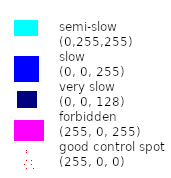
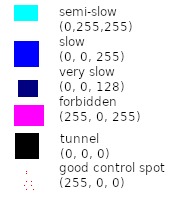
Tunnel merged at coffee break.

diff --git a/src/main.py b/src/main.py
@@ -85,6 +85,7 @@ def setTheStageForNewRound(cfg):
         uiInitStartTriangle(angle, position)
         nextControl = 1
         reachedControl = 0
+        inTunnel = False
         playerRoutes = []
         startOverPlayerRoute()
         initializeAINextTrack(ctrls, faLookup, saLookup, ssaLookup, vsaLookup, gameSettings.pacemaker)
@@ -98,6 +99,7 @@ def setTheStageForNewRound(cfg):
         shortestWeightedDistance = 0.0
         playerWeightedDistance = 0.0
         state = "running"
+        inTunnelPacmaker = False
         pacemakerPath = None
         pacemakerSteps = 0
         pacemakerStartThreshold = 0
@@ -191,6 +193,7 @@ if __name__ == "__main__":
     playerRoutes = []
     startTime = None
     totalTime = None
+    inTunnel = False
     shortestDistance = None
     playerDistance = None
     shortestWeightedDistance = None
@@ -202,6 +205,7 @@ if __name__ == "__main__":
     pacemakerStartThreshold = 0
     pacemakerPosition = None
     pacemakerPath = None
+    inTunnelPacemaker = False
     pacemakerAngle = 0
     pacemakerPrepareForShout = True
     pacemakerStep = -5
@@ -243,7 +247,7 @@ if __name__ == "__main__":
                 running = False
             stopBirds()
         if not quitting:
-            config, controls, faLookup, saLookup, ssaLookup, vsaLookup, generatedOrDownloadedMap, tmpMetersPerPixel = returnConfig(gameSettings, externalImageData)
+            config, controls, faLookup, saLookup, ssaLookup, vsaLookup, tunnelLookup, generatedOrDownloadedMap, tmpMetersPerPixel = returnConfig(gameSettings, externalImageData)
 
             # scale from multiple sources...
             if gameSettings.infiniteOulu:
@@ -326,7 +330,7 @@ if __name__ == "__main__":
                         if gameSettings.autoTest:
                             position, angle = fakeCalculateNextStep(controls)
                         else:
-                            position, angle = calculateNextStep(faLookup, saLookup, ssaLookup, vsaLookup, position, angle, movement, gameSettings.speed, gameSettings.metersPerPixel)
+                            position, angle, inTunnel = calculateNextStep(faLookup, saLookup, ssaLookup, vsaLookup, tunnelLookup, position, angle, movement, gameSettings.speed, gameSettings.metersPerPixel)
 
                         # Progress the pacemaker position
                         if pacemakerPath is not None:
@@ -334,7 +338,7 @@ if __name__ == "__main__":
                             pacemakerAdvancement = 0
                             if pacemakerSteps > pacemakerStartThreshold:
                                 pacemakerAdvancement = pacemakerSteps - pacemakerStartThreshold
-                            pacemakerPosition, pacemakerAngle = getPacemakerPos(saLookup, ssaLookup, vsaLookup, pacemakerPath, pacemakerAdvancement, gameSettings.speed, gameSettings.metersPerPixel, gameSettings.pacemaker)
+                            pacemakerPosition, pacemakerAngle, inTunnelPacemaker = getPacemakerPos(saLookup, ssaLookup, vsaLookup, tunnelLookup, pacemakerPath, pacemakerAdvancement, gameSettings.speed, gameSettings.metersPerPixel, gameSettings.pacemaker)
 
                     # Flush the AI pools every now and then
                     aiCounter = aiCounter + 1
@@ -412,7 +416,7 @@ if __name__ == "__main__":
                         uiRenderControls(controls, gameSettings.pacemaker)
                         if gameSettings.pacemaker != 0 and pacemakerPath is not None and pacemakerPosition is not None:
                             if pacemakerPosition == pacemakerPath[-1]:
-                                uiAnimatePacemaker(pacemakerPosition, pacemakerAngle, 1.0, gameSettings.pacemaker)
+                                uiAnimatePacemaker(pacemakerPosition, pacemakerAngle, 1.0, gameSettings.pacemaker, inTunnelPacemaker)
                                 pacemakerPrepareForShout = True
                                 pacemakerStep = -5
                             elif pacemakerPosition == pacemakerPath[0]:
@@ -439,7 +443,7 @@ if __name__ == "__main__":
 
                     # After that it is ok to draw to "big screen"
                     moveLegs = True if datetime.now() - startTime > timedelta(seconds=gameMovingStartThreshold) else False
-                    uiAnimatePlayer(moveLegs)
+                    uiAnimatePlayer(moveLegs, inTunnel)
                     if gameSettings.pacemaker != 0:
                         if (len(futureShortestRoutes) == 0 or len(futureShortestRoutes[0]) == 0) and (reachedControl > 0 and reachedControl < len(controls) - 1):
                             uiRenderAIText()

diff --git a/src/modules/gameUI.py b/src/modules/gameUI.py
@@ -162,38 +162,40 @@ def uiCenterTurnZoomTheMap(pos, zoom, angle):
     getBigScreen().fill(getWhiteColor())
 
 
-def uiAnimateCharacter(where, origin, angle, color, scale, feetPlus):
+def uiAnimateCharacter(where, origin, angle, color, scale, feetPlus, inTunnel):
     feetPlus = feetPlus - 1.0
     if feetPlus <= -feetPlusStart:
         feetPlus = feetPlusStart
 
-    leftFootStart = rotatePoint(origin, (origin[0] - 2 * scale, origin[1]), angle)
-    rightFootStart = rotatePoint(origin, (origin[0] + 2 * scale, origin[1]), angle)
-    leftFootEnd = rotatePoint(origin, (origin[0] - 2 * scale, origin[1] + scale  * (3 + feetPlusStart - abs(feetPlus*1.5))), angle)
-    rightFootEnd = rotatePoint(origin, (origin[0] + 3 * scale, origin[1] + scale * (3 + abs(feetPlus*1.5))), angle)
-    leftHand = (origin[0] - 5 * scale, origin[1] + scale * (-feetPlusStart/2 + abs(feetPlus)))
-    rightHand = rotatePoint(origin, (origin[0] + 5 * scale, origin[1] + scale * (-feetPlusStart/2 + (feetPlusStart - abs(feetPlus)))), angle)
+    if not inTunnel:
+        leftFootStart = rotatePoint(origin, (origin[0] - 2 * scale, origin[1]), angle)
+        rightFootStart = rotatePoint(origin, (origin[0] + 2 * scale, origin[1]), angle)
+        leftFootEnd = rotatePoint(origin, (origin[0] - 2 * scale, origin[1] + scale  * (3 + feetPlusStart - abs(feetPlus*1.5))), angle)
+        rightFootEnd = rotatePoint(origin, (origin[0] + 3 * scale, origin[1] + scale * (3 + abs(feetPlus*1.5))), angle)
+        leftHand = (origin[0] - 5 * scale, origin[1] + scale * (-feetPlusStart/2 + abs(feetPlus)))
+        rightHand = rotatePoint(origin, (origin[0] + 5 * scale, origin[1] + scale * (-feetPlusStart/2 + (feetPlusStart - abs(feetPlus)))), angle)
 
-    pygame.draw.line(where, color, leftFootStart, leftFootEnd, width=int(3 * scale))
-    pygame.draw.line(where, color, rightFootStart, rightFootEnd, width=int(3 * scale))
-    pygame.draw.line(where, color, leftHand, rightHand, width=int(3 * scale))
+        pygame.draw.line(where, color, leftFootStart, leftFootEnd, width=int(3 * scale))
+        pygame.draw.line(where, color, rightFootStart, rightFootEnd, width=int(3 * scale))
+        pygame.draw.line(where, color, leftHand, rightHand, width=int(3 * scale))
+
     pygame.draw.circle(where, color, origin, int(3 * scale))
     return feetPlus
 
 
 feetPlusPlayer = feetPlusStart
-def uiAnimatePlayer(legsMoving):
+def uiAnimatePlayer(legsMoving, inTunnel):
     global feetPlusPlayer
     if not legsMoving:
-        uiAnimateCharacter(screen, me, 0, getPlayerColor(), 1, 0)
+        uiAnimateCharacter(screen, me, 0, getPlayerColor(), 1, 0, inTunnel)
     else:
-        feetPlusPlayer = uiAnimateCharacter(screen, me, 0, getPlayerColor(), 1, feetPlusPlayer)
+        feetPlusPlayer = uiAnimateCharacter(screen, me, 0, getPlayerColor(), 1, feetPlusPlayer, inTunnel)
 
 
 feetPlusPacemaker = feetPlusStart
-def uiAnimatePacemaker(pos, angle, scale, pacemakerInd):
+def uiAnimatePacemaker(pos, angle, scale, pacemakerInd, inTunnel):
     global feetPlusPacemaker
-    feetPlusPacemaker = uiAnimateCharacter(oMapCopy, pos, math.pi - angle, getPacemakerColor(pacemakerInd), 0.5 * scale,feetPlusPacemaker)
+    feetPlusPacemaker = uiAnimateCharacter(oMapCopy, pos, math.pi - angle, getPacemakerColor(pacemakerInd), 0.5 * scale,feetPlusPacemaker, inTunnel)
 
 
 def uiCompleteRender(finishTexts, mapInfoTextList):

diff --git a/src/modules/lookupPngReader.py b/src/modules/lookupPngReader.py
@@ -24,7 +24,7 @@ from random import randrange
 import pygame
 
 from .pathPruning import pruneWeightedDistance
-from .utils import getForbiddenAreaMask, getSlowAreaMask, getSemiSlowAreaMask, getVerySlowAreaMask, getControlMask
+from .utils import getForbiddenAreaMask, getSlowAreaMask, getSemiSlowAreaMask, getVerySlowAreaMask, getControlMask, getTunnelMask
 
 
 def getTfs():
@@ -37,9 +37,10 @@ def extractPngLookups(oMapMask):
     saLookup = {}
     ssaLookup = {}
     vsaLookup = {}
+    tunnelLookup = {}
     controls = []
     if oMapMask == None:
-        return faLookup, saLookup, ssaLookup, vsaLookup, controls
+        return faLookup, saLookup, ssaLookup, vsaLookup, tunnelLookup, controls
 
     size = oMapMask.get_size()
 
@@ -48,6 +49,7 @@ def extractPngLookups(oMapMask):
         saLookup[tf] = {}
         ssaLookup[tf] = {}
         vsaLookup[tf] = {}
+        tunnelLookup[tf] = {}
 
     for y in range(0, size[1]):
         for x in range(0, size[0]):
@@ -55,6 +57,9 @@ def extractPngLookups(oMapMask):
             if col == getSlowAreaMask():
                 for tf in getTfs():
                     saLookup[tf][(int(x/tf), int(y/tf))] = True
+            elif col == getTunnelMask():
+                for tf in getTfs():
+                    tunnelLookup[tf][(int(x/tf), int(y/tf))] = True
             elif col == getSemiSlowAreaMask():
                 for tf in getTfs():
                     ssaLookup[tf][(int(x/tf), int(y/tf))] = True
@@ -67,7 +72,7 @@ def extractPngLookups(oMapMask):
             elif col == getControlMask():
                 controls.append((x, y))
 
-    return faLookup, saLookup, ssaLookup, vsaLookup, controls
+    return faLookup, saLookup, ssaLookup, vsaLookup, tunnelLookup, controls
 
 
 def extractPngLookupsFromFile(pngFileName):
@@ -75,7 +80,7 @@ def extractPngLookupsFromFile(pngFileName):
         oMapMask = pygame.image.load(pngFileName)
     except Exception as err:
         print(f"Cannot load map from file: {err=}, {type(err)=}")
-        return {}, {}, {}, {}, []
+        return {}, {}, {}, {}, {}, []
 
     faLookup, saLookup, ssaLookup, vsaLookup, controls = extractPngLookups(oMapMask)
-    return faLookup, saLookup, ssaLookup, vsaLookup, controls
+    return faLookup, saLookup, ssaLookup, vsaLookup, tunnelLookup, controls

diff --git a/src/modules/gameEngine.py b/src/modules/gameEngine.py
@@ -61,7 +61,7 @@ def stepAdvancer(saLookup, ssaLookup, vsaLookup, pos, angle, speed, speedupFacto
 
 
 # tries to behave naturally with buildings, bushes, etc.
-def calculateNextStep(faLookup, saLookup, ssaLookup, vsaLookup, pos, angle, movement, speed, metersPerPixel):
+def calculateNextStep(faLookup, saLookup, ssaLookup, vsaLookup, tunnelLookup, pos, angle, movement, speed, metersPerPixel):
     global angleStep
     dangles = [0, -math.pi/32, math.pi/32, -math.pi/16, math.pi/16, -math.pi/8, math.pi/8, -math.pi/4, math.pi/4, -(math.pi/4 + math.pi/8), (math.pi/4 + math.pi/8)]
     safeToRun = True
@@ -87,7 +87,9 @@ def calculateNextStep(faLookup, saLookup, ssaLookup, vsaLookup, pos, angle, move
         pos = stepAdvancer(saLookup, ssaLookup, vsaLookup, pos, angle, speed, 1.0 / metersPerPixel)
 
     playerRoute.append(pos)
-    return pos, angle
+
+    
+    return pos, angle, lookupContains(tunnelLookup, pos)
 
 
 def closeToControl(pos, ctrl):
@@ -115,7 +117,7 @@ def getPacemakerThreshold(inputPath, pacemakerInd):
     return max(minPacemakerThresholds[pacemakerInd], int(calculatePathDistance(inputPath) * pacemakerHandicapFraction[pacemakerInd]))
 
 
-def getPacemakerPos(saLookup, ssaLookup, vsaLookup, inputPath, steps, speed, metersPerPixel, pacemakerInd):
+def getPacemakerPos(saLookup, ssaLookup, vsaLookup, tunnelLookup, inputPath, steps, speed, metersPerPixel, pacemakerInd):
     index = 0
     path = inputPath.copy()
     path.reverse()
@@ -131,7 +133,8 @@ def getPacemakerPos(saLookup, ssaLookup, vsaLookup, inputPath, steps, speed, met
                 break
             dist = distanceBetweenPoints(path[index], path[index + 1])
             angle = angleOfLine([path[index], path[index + 1]])
-    return pos, angle
+
+    return pos, angle, lookupContains(tunnelLookup, pos)
 
 
 def generateAngleStep():

diff --git a/src/modules/gameSettings.py b/src/modules/gameSettings.py
@@ -110,7 +110,7 @@ def returnConfig(gameSettings, externalImageData):
         png = preGenResult[0]
         pngMask = preGenResult[1]
 
-        faLookup, saLookup, ssaLookup, vsaLookup, config = extractPngLookups(pngMask)
+        faLookup, saLookup, ssaLookup, vsaLookup, tunnelLookup, config = extractPngLookups(pngMask)
 
     elif not gameSettings.lookupPngName and (gameSettings.externalExampleTeam and gameSettings.externalExample):
         for item in externalImageData:
@@ -123,10 +123,10 @@ def returnConfig(gameSettings, externalImageData):
         # I use these to test lost internet connection
         #png = None
         #pngMask = None
-        faLookup, saLookup, ssaLookup, vsaLookup, config = extractPngLookups(pngMask)
+        faLookup, saLookup, ssaLookup, vsaLookup, tunnelLookup, config = extractPngLookups(pngMask)
 
     if gameSettings.lookupPngName: # map given at command line
-        faLookup, saLookup, ssaLookup, vsaLookup, config = extractPngLookupsFromFile(gameSettings.lookupPngName)
+        faLookup, saLookup, ssaLookup, vsaLookup, tunnelLookup, config = extractPngLookupsFromFile(gameSettings.lookupPngName)
         metersPerPixel = gameSettings.metersPerPixel
 
     controls = []
@@ -135,4 +135,4 @@ def returnConfig(gameSettings, externalImageData):
             with open(gameSettings.routeFileName, 'rb') as f:
                 controls = pickle.load(f)
 
-    return config, controls, faLookup, saLookup, ssaLookup, vsaLookup, png, metersPerPixel
+    return config, controls, faLookup, saLookup, ssaLookup, vsaLookup, tunnelLookup, png, metersPerPixel

diff --git a/src/modules/infiniteOulu.py b/src/modules/infiniteOulu.py
@@ -24,7 +24,7 @@ import math
 
 from .mathUtils import rotateVector, rotatePoint, getBoundingBox, polygonCreate, polygonContainsWithLookup
 from .lookupPngReader import getTfs
-from .utils import getSlowAreaMask, getSemiSlowAreaMask, getVerySlowAreaMask, getForbiddenAreaMask, getControlMask, getNoMask, getAiPoolMaxTimeLimit
+from .utils import getSlowAreaMask, getSemiSlowAreaMask, getVerySlowAreaMask, getForbiddenAreaMask, getControlMask, getNoMask, getAiPoolMaxTimeLimit, getTunnelMask
 
 # types
 FOREST = '.'
@@ -236,7 +236,9 @@ def dumpArea(area, title):
 def areaSetAt(area, png, mask, y, x, filltype):
     area[int(y)][int(x)] = filltype
     png.fill(colors[filltype], ((x, y), (1, 1)))
-    if filltype in forbidden:
+    if filltype in SHELTERINTERNAL:
+        mask.fill(getTunnelMask(), ((x, y), (1, 1)))
+    elif filltype in forbidden:
         mask.fill(getForbiddenAreaMask(), ((x, y), (1, 1)))
     elif filltype in slowing:
         mask.fill(getSlowAreaMask(), ((x, y), (1, 1)))

diff --git a/src/modules/utils.py b/src/modules/utils.py
@@ -46,6 +46,9 @@ def getVerySlowAreaMask():
 def getForbiddenAreaMask():
     return (255, 0, 255)
 
+def getTunnelMask():
+    return (0, 0, 0)
+
 def getControlMask():
     return (255, 0, 0)
 

diff --git a/README.md b/README.md
@@ -230,7 +230,6 @@ Low hanging fruits:
 * Allow publication of a set of fixed track designs for a map
 * Android (buildozer spec exists, does not fully work yet)
 * gradient slow terrain, for better modeling of staircases and hills
-* marking for sheds and tunnels, so that you can run under the surface
 * graphics beautification
 * Score-O mode (collect contols with score in any order, time limit)
 
